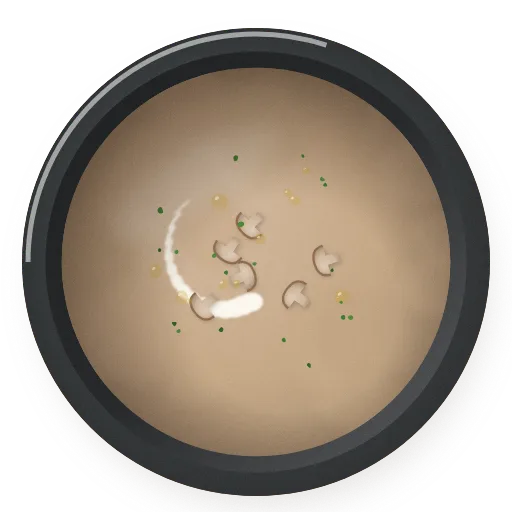
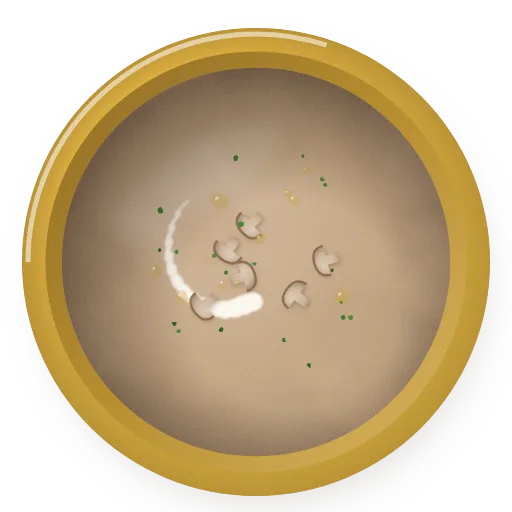
Días de compra a elegir, colores vivos y cabecera más pequeña
- Elegir toda la semana, 2, 3 o 4 días desde hoy, o días sueltos
- Tema claro y vivo siempre (sin fondo negro en modo oscuro); vajilla de colores en los dibujos
- Cabecera de 185 a 93 px; al bajar queda una barra de 55 px

Claude-Session: https://claude.ai/code/session_011mbdbddPVw8JRDQBDBTJyS

Changed region(s): [[0.0312, 0.0312, 0.9688, 0.9688]]

diff --git a/index.html b/index.html
@@ -3,7 +3,7 @@
 <head>
 <meta charset="utf-8">
 <meta name="viewport" content="width=device-width, initial-scale=1, viewport-fit=cover">
-<meta name="theme-color" content="#1D7A4B">
+<meta name="theme-color" content="#10934F">
 <meta name="apple-mobile-web-app-capable" content="yes">
 <meta name="apple-mobile-web-app-title" content="Mi Compra">
 <meta name="mobile-web-app-capable" content="yes">
@@ -18,23 +18,16 @@
 <style>
 /* Layout: columna móvil de 560px máx · cabecera fija con el estado de la cesta · contenido por pestañas · navegación inferior fija */
 :root{
-  --bg:#F5FAF6; --surface:#FFFFFF; --ink:#13271B; --muted:#58705F; --line:#DAE6DD;
-  --green:#1D7A4B; --green-strong:#135C36; --green-soft:#E2F2E8; --on-green:#FFFFFF; --leaf:#F2B53A; --plate-bg:#EAF3EC;
-  --table:#E6ECE5; --table-line:rgba(19,39,27,.035); --warn:#9A6212; --warn-soft:#FBF0DB; --bad:#B3261E; --bad-soft:#FBE6E3;
-  --shadow:0 1px 2px rgba(19,39,27,.06),0 6px 20px rgba(19,39,27,.06);
+  /* Tema único, claro y vivo (a petición: nada de fondos negros, aunque el móvil esté en modo oscuro) */
+  --bg:#F4FBF6; --surface:#FFFFFF; --ink:#16352A; --muted:#5B7367; --line:#D5EADC;
+  --green:#10934F; --green-strong:#0A7440; --green-soft:#DCF4E5; --on-green:#FFFFFF; --leaf:#FFB627; --plate-bg:#E8F6EC;
+  --head:linear-gradient(120deg,#0E8A4A 0%,#13A55C 60%,#22B86E 100%);
+  --table:#EAF5EC; --table-line:rgba(16,147,79,.05); --warn:#A35F00; --warn-soft:#FFF1D6; --bad:#C62A1F; --bad-soft:#FFE7E3;
+  --shadow:0 1px 2px rgba(16,60,35,.06),0 6px 20px rgba(16,60,35,.07);
   --f-display:"Bricolage Grotesque",ui-rounded,"Segoe UI",system-ui,sans-serif;
   --f-body:"Figtree",system-ui,-apple-system,"Segoe UI",Roboto,sans-serif;
+  color-scheme:light;
 }
-@media (prefers-color-scheme: dark){:root:not([data-theme="light"]){
-  --bg:#0E1812; --surface:#15221A; --ink:#E5EFE8; --muted:#9AB1A2; --line:#25372B;
-  --green:#4BC283; --green-strong:#7FD9A8; --green-soft:#183324; --on-green:#08170E; --leaf:#F2C15A; --plate-bg:#1F3428;
-  --table:#1B2A20; --table-line:rgba(255,255,255,.03); --warn:#E6B356; --warn-soft:#352A12; --bad:#F2897F; --bad-soft:#3A1B18;
-  --shadow:0 1px 2px rgba(0,0,0,.3),0 6px 20px rgba(0,0,0,.25); color-scheme:dark}}
-:root[data-theme="dark"]{
-  --bg:#0E1812; --surface:#15221A; --ink:#E5EFE8; --muted:#9AB1A2; --line:#25372B;
-  --green:#4BC283; --green-strong:#7FD9A8; --green-soft:#183324; --on-green:#08170E; --leaf:#F2C15A; --plate-bg:#1F3428;
-  --table:#1B2A20; --table-line:rgba(255,255,255,.03); --warn:#E6B356; --warn-soft:#352A12; --bad:#F2897F; --bad-soft:#3A1B18;
-  --shadow:0 1px 2px rgba(0,0,0,.3),0 6px 20px rgba(0,0,0,.25); color-scheme:dark}
 
 *{box-sizing:border-box}
 body{background:var(--bg);color:var(--ink);font-family:var(--f-body);font-size:15px;line-height:1.45;-webkit-font-smoothing:antialiased}
@@ -46,25 +39,31 @@ button{cursor:pointer}
 .wrap{max-width:560px;margin:0 auto;padding-left:max(16px,env(safe-area-inset-left,0px));padding-right:max(16px,env(safe-area-inset-right,0px))}
 
 /* Cabecera */
-header.top{background:var(--green);color:var(--on-green)}
-header.top .wrap{padding-block:12px 8px;display:grid;gap:10px}
-.statusbar{position:sticky;top:env(safe-area-inset-top,0px);z-index:5;background:var(--green);color:var(--on-green);box-shadow:0 6px 14px -10px rgba(10,30,18,.45)}
-.statusbar .wrap{padding-block:4px 12px}
+header.top{background:var(--head);color:var(--on-green)}
+header.top .wrap{padding-block:8px 2px;display:grid;gap:6px}
+.statusbar{position:sticky;top:env(safe-area-inset-top,0px);z-index:5;background:var(--head);color:var(--on-green);box-shadow:0 6px 14px -10px rgba(10,30,18,.45)}
+.statusbar .wrap{padding-block:4px 9px}
 body::before{content:"";position:fixed;inset:0 0 auto;height:env(safe-area-inset-top,0px);z-index:10;background:var(--green)}
 .brand{display:flex;align-items:center;justify-content:space-between;gap:12px}
 .logo{display:flex;align-items:center;gap:10px;min-width:0}
-.logo .mark{width:42px;height:42px;flex:none}
-.brand h1{font-family:var(--f-display);font-weight:800;font-size:19px;letter-spacing:-.01em;margin:0;line-height:1.1}
+.logo .mark{width:28px;height:28px;flex:none}
+.brand h1{font-family:var(--f-display);font-weight:800;font-size:16px;white-space:nowrap;letter-spacing:-.01em;margin:0;line-height:1.1}
 .tagline{margin:2px 0 0;font-size:12.5px;opacity:.9}
 .store-link{font-size:12px;font-weight:600;color:var(--green);text-decoration:none;white-space:nowrap}
 .store-link:hover{text-decoration:underline}
 .store-card{display:flex;gap:12px;align-items:center;justify-content:space-between;flex-wrap:wrap}
 a.btn{text-decoration:none}
-.demo-tag{font-size:11px;font-weight:700;letter-spacing:.06em;text-transform:uppercase;padding:3px 8px;border-radius:99px;border:1px solid currentColor;opacity:.9;white-space:nowrap}
-.status{display:grid;gap:6px}
+.demo-tag{font-size:9.5px;font-weight:700;letter-spacing:.06em;text-transform:uppercase;padding:3px 8px;border-radius:99px;border:1px solid currentColor;opacity:.9;white-space:nowrap}
+.status{display:grid;gap:5px}
+.st-main{display:flex;justify-content:space-between;align-items:center;gap:10px}
+.st-total{display:flex;align-items:baseline;gap:6px;white-space:nowrap}
+.st-total strong{font-family:var(--f-display);font-size:22px;font-weight:800;line-height:1}
+.st-total span{font-size:13px;opacity:.9}
+.st-side{display:grid;justify-items:end;font-size:12px;line-height:1.25;text-align:right;min-width:0}
+.st-side b{font-size:13px}
 .status-row{display:flex;justify-content:space-between;align-items:baseline;gap:8px;font-size:13px}
 .status-row strong{font-family:var(--f-display);font-size:22px;font-weight:700}
-.meter{height:8px;border-radius:99px;background:color-mix(in srgb,var(--on-green) 25%,transparent);overflow:hidden}
+.meter{height:6px;border-radius:99px;background:color-mix(in srgb,var(--on-green) 25%,transparent);overflow:hidden}
 .meter i{display:block;height:100%;border-radius:99px;background:var(--on-green);transition:width .35s ease}
 .meter.over i{background:var(--warn-soft)}
 
@@ -205,7 +204,7 @@ nav.bottom button[aria-current="page"] svg{stroke-width:2.3}
 .alt:hover{border-color:var(--green)}
 .alt.current{border-color:var(--green);background:var(--green-soft)}
 
-.toast{position:fixed;left:50%;transform:translateX(-50%);bottom:calc(88px + env(safe-area-inset-bottom,0px));background:var(--ink);color:var(--bg);padding:10px 16px;border-radius:10px;font-size:14px;font-weight:600;z-index:30;box-shadow:var(--shadow)}
+.toast{position:fixed;left:50%;transform:translateX(-50%);bottom:calc(88px + env(safe-area-inset-bottom,0px));background:var(--green-strong);color:#fff;padding:10px 16px;border-radius:12px;box-shadow:0 8px 24px rgba(10,80,40,.25);font-size:14px;font-weight:600;z-index:30;box-shadow:var(--shadow)}
 @media (prefers-reduced-motion: reduce){*{transition:none!important}}
 @media (max-width:380px){.slots{grid-template-columns:1fr}.bar-row{grid-template-columns:minmax(0,7em) 1fr auto}}
 
@@ -322,7 +321,7 @@ nav.bottom button span{white-space:nowrap}
 .w-q{display:grid;gap:10px;justify-items:center}
 .w-q .label{justify-self:start}
 .w-q .tiles{width:100%}
-.super .progress{position:sticky;top:calc(env(safe-area-inset-top,0px) + 92px);z-index:3;box-shadow:var(--shadow)}
+.super .progress{position:sticky;top:calc(env(safe-area-inset-top,0px) + 62px);z-index:3;box-shadow:var(--shadow)}
 .super-count{font-size:17px}
 .ssec{display:grid;border:1px solid var(--line);border-radius:16px;overflow:hidden;background:var(--surface)}
 .ssec-head{display:flex;justify-content:space-between;align-items:center;padding:10px 14px;background:var(--green-soft);font-weight:700;color:var(--green-strong)}
@@ -356,6 +355,9 @@ nav.bottom button span{white-space:nowrap}
 .ext-row{display:flex;align-items:center;gap:8px;flex-wrap:wrap;margin:2px 0}
 .wk.fuera{opacity:.45}
 .wk.fuera[aria-pressed="true"]{opacity:.8}
+.dias-sel{display:grid;grid-template-columns:repeat(7,1fr);gap:5px;width:100%}
+.dsel{border:2px solid var(--line);background:var(--surface);border-radius:12px;padding:10px 0;font-weight:700;font-size:13px;color:var(--muted)}
+.dsel[aria-pressed="true"]{background:var(--green);border-color:var(--green);color:#fff}
 .compra-act{display:flex;align-items:center;gap:10px;border-color:color-mix(in srgb,var(--green) 40%,var(--line));background:var(--green-soft)}
 .tile.freq{gap:3px;padding:12px 6px}
 .tile.freq .t-emo{font-family:var(--f-display);font-weight:800;font-size:28px}
@@ -386,7 +388,7 @@ nav.bottom button span{white-space:nowrap}
           <path d="m17.5 27 4.5 4.5 8.5-9" stroke="var(--on-green)" stroke-width="3.2" stroke-linecap="round" stroke-linejoin="round" fill="none"/>
           <path d="M33 6c4 0 7 2.5 7 7-4.2 0-7-2.6-7-7z" fill="var(--leaf)"/>
         </svg>
-        <div><h1>Mi Compra Inteligente</h1><p class="tagline">Tu semana organizada para comprar en Mercadona</p></div>
+        <h1>Mi Compra Inteligente</h1>
       </div>
       <span class="demo-tag" title="Precios orientativos sin verificar">Precios demo</span>
     </div>
@@ -829,7 +831,7 @@ RECETAS.push({id:'aprovechar', aprov:true, nombre:'Plato de aprovechamiento', mo
 const REC = Object.fromEntries(RECETAS.map(r=>[r.id,r]));
 
 const EJEMPLO = () => ({
-  hogar:{personas:4, presupuesto:100, vegetariano:false, rapido:false, alergias:[], reciclaje:true, diaReciclaje:6, cadaDias:7, inicio:0},
+  hogar:{personas:4, presupuesto:100, vegetariano:false, rapido:false, alergias:[], reciclaje:true, diaReciclaje:6, dias:[0,1,2,3,4,5,6]},
   extras:{},
   menu:[
     {comida:'lentejas', cena:'tortilla-patata'},
@@ -1097,11 +1099,18 @@ function mejorasCalc(){
    Un día a la semana se rellena solo con los platos que mejor gastan lo que sobra del resto de la semana:
    se prueba cada receta compatible y se queda la que deja la cesta más barata contando el desperdicio. */
 /* ---------- Compra por días ----------
-   cadaDias = 7: una compra semanal de lunes a domingo. 2, 3 o 4: compras más cortas que empiezan en «inicio».
-   Solo los días de la compra actual cuentan para la lista, el presupuesto y el aprovechamiento. */
-const cadaDias = () => [2,3,4,7].includes(state.hogar.cadaDias) ? state.hogar.cadaDias : 7;
-function diasCompra(){ const n=cadaDias(), ini=n===7?0:(state.hogar.inicio||0); return Array.from({length:n},(_,k)=>(ini+k)%7); }
-const enCompra = i => cadaDias()===7 || diasCompra().includes(i);
+   «dias» son los días de la semana que entran en esta compra: la semana entera (de lunes a domingo),
+   unos cuantos seguidos (por ejemplo, 3) o días sueltos elegidos a mano. Solo esos días cuentan
+   para la lista, el presupuesto y el aprovechamiento. */
+function diasElegidos(){ const h=state.hogar;
+  if(Array.isArray(h.dias)&&h.dias.length) return h.dias;
+  const n=[2,3,4].includes(h.cadaDias)?h.cadaDias:7; // datos guardados de la versión anterior
+  return n===7?[0,1,2,3,4,5,6]:Array.from({length:n},(_,k)=>((h.inicio||0)+k)%7); }
+function diasCompra(){ const d=[...new Set(diasElegidos())]; if(d.length===7) return [0,1,2,3,4,5,6]; const hoy=diaHoy(); return d.sort((a,b)=>((a-hoy+7)%7)-((b-hoy+7)%7)); }
+const cadaDias = () => diasCompra().length;
+const seguidosDesde = (ini,n) => Array.from({length:n},(_,k)=>(ini+k)%7);
+const sonSeguidos = () => { const d=diasCompra(); return d.every((x,k)=>k===0||x===(d[k-1]+1)%7); };
+const enCompra = i => diasCompra().includes(i);
 const limite = () => cadaDias()===7 ? state.hogar.presupuesto : r2(state.hogar.presupuesto*cadaDias()/7);
 function nombresDias(dias){ const n=dias.map(i=>DIAS[i].slice(0,3).toLowerCase()); return n.length>1? n.slice(0,-1).join(', ')+' y '+n.at(-1) : n[0]; }
 const textoCompra = () => cadaDias()===7 ? 'de lunes a domingo' : nombresDias(diasCompra());
@@ -1381,9 +1390,9 @@ function numPlatos(){ return state.menu.reduce((n,d,i)=>n+(enCompra(i)?MOMENTOS.
 function pintarEstado(){
   const c=calcularCesta(), h=state.hogar, L=limite(), pct=Math.min(100,c.total/L*100), over=c.total>L;
   document.getElementById('status').innerHTML=`
-    <div class="status-row"><span>🛒 ${h.personas} ${h.personas===1?'persona':'personas'} · ${numPlatos()} platos${cadaDias()<7?' · '+cadaDias()+' días':''}</span><span class="num">${over?'⚠ Te pasas '+eur(c.total-L):'✅ Te sobran '+eur(L-c.total)}</span></div>
+    <div class="st-main"><div class="st-total"><strong class="num">${eur(c.total)}</strong><span class="num">de ${eur(L)}</span></div>
+      <div class="st-side"><b class="num">${over?'⚠ Te pasas '+eur(c.total-L):'✅ Te sobran '+eur(L-c.total)}</b><span>${h.personas} ${h.personas===1?'persona':'personas'} · ${numPlatos()} platos${cadaDias()<7?' · '+cadaDias()+' días':''}</span></div></div>
     ${navigator.onLine===false?'<div class="offline">📴 Sin conexión · la app sigue funcionando</div>':''}
-    <div class="status-row"><strong class="num">${eur(c.total)}</strong><span class="num">de ${eur(L)}</span></div>
     <div class="meter ${over?'over':''}" role="progressbar" aria-label="Cesta frente a presupuesto" aria-valuenow="${Math.round(pct)}" aria-valuemin="0" aria-valuemax="100"><i style="width:${pct}%"></i></div>`;
   return c;
 }
@@ -1396,7 +1405,7 @@ function render(){
 const aviso=`<div class="notice"><span>ⓘ</span><span><b>Datos de demostración.</b> Los precios y formatos son orientativos y no están verificados. Mi Compra Inteligente es una app independiente, no afiliada a Mercadona ni respaldada por ella, y no tiene integración oficial con su tienda: comprueba los precios en tu supermercado o en su web antes de comprar.</span></div>`;
 
 const PRESU_MIN=20, PRESU_MAX=400;
-const FRECUENCIAS=[[7,'Una vez a la semana','De lunes a domingo'],[4,'Cada 4 días','4 días de menú'],[3,'Cada 3 días','3 días de menú'],[2,'Cada 2 días','2 días de menú']];
+const FRECUENCIAS=[[7,'Toda la semana','De lunes a domingo'],[4,'4 días','Desde hoy'],[3,'3 días','Desde hoy'],[2,'2 días','Desde hoy']];
 function vHogar(){
   const h=state.hogar;
   return `<section data-view="hogar">
@@ -1424,15 +1433,15 @@ function vHogar(){
       </div>
     </div>
     <div class="card bigq">
-      <div class="q-title"><span class="q-emo">🗓</span><span>¿Cada cuánto haces la compra?</span></div>
-      <div class="tiles two">${FRECUENCIAS.map(([n,t,sub])=>`<button class="tile freq" data-act="cada" data-v="${n}" aria-pressed="${cadaDias()===n}"><span class="t-emo">${n===7?'📅':n}</span><span>${t}</span><span class="small muted">${sub}</span></button>`).join('')}</div>
-      ${cadaDias()<7?`<div class="label" style="justify-self:start">¿Qué día empieza esta compra?</div>
-        <div class="quick">${DIAS.map((dn,i)=>`<button class="chip" data-act="inicio" data-v="${i}" aria-pressed="${(h.inicio||0)===i}">${dn.slice(0,3)}</button>`).join('')}</div>
-        <p class="small muted" style="margin:0">Esta compra: <b>${textoCompra()}</b> · ${eur(limite())} de tu presupuesto semanal.</p>`:''}
+      <div class="q-title"><span class="q-emo">🗓</span><span>¿Para qué días haces la compra?</span></div>
+      <div class="tiles two">${FRECUENCIAS.map(([n,t,sub])=>`<button class="tile freq" data-act="cada" data-v="${n}" aria-pressed="${cadaDias()===n&&sonSeguidos()}"><span class="t-emo">${n===7?'📅':n}</span><span>${t}</span><span class="small muted">${sub}</span></button>`).join('')}</div>
+      <div class="label" style="justify-self:start">O toca los días que quieras</div>
+      <div class="dias-sel" role="group" aria-label="Días de esta compra">${DIAS.map((dn,i)=>`<button class="dsel" data-act="tdia" data-v="${i}" aria-pressed="${enCompra(i)}">${dn.slice(0,3)}</button>`).join('')}</div>
+      <p class="small muted" style="margin:0">Esta compra: <b>${cadaDias()} ${cadaDias()===1?'día':'días'} · ${textoCompra()}</b>${cadaDias()<7?` · ${eur(limite())} de tu presupuesto semanal`:''}.</p>
     </div>
     <div class="card bigq">
       <div class="q-title"><span class="q-emo">♻</span><span>Día de aprovechamiento</span></div>
-      <p class="small muted" style="margin:0;max-width:34ch">${cadaDias()===7?'Un día a la semana cenáis con lo que sobra, y la comida de ese día se elige para gastar lo que ya está comprado. Así no se tira nada.':cadaDias()>=3?`Comprando cada ${cadaDias()} días, la cena del último día de cada compra se hace con lo que sobra.`:'Comprando cada 2 días casi no sobra comida, así que no hace falta un día de aprovechamiento.'}</p>
+      <p class="small muted" style="margin:0;max-width:34ch">${cadaDias()===7?'Un día a la semana cenáis con lo que sobra, y la comida de ese día se elige para gastar lo que ya está comprado. Así no se tira nada.':cadaDias()>=3?`Con compras de ${cadaDias()} días, la cena del último día de cada compra se hace con lo que sobra.`:(cadaDias()===1?'Con compras de un día no sobra comida, así que no hace falta un día de aprovechamiento.':'Con compras de 2 días casi no sobra comida, así que no hace falta un día de aprovechamiento.')}</p>
       ${cadaDias()>=3?`<div class="tiles two" style="max-width:320px"><button class="tile" data-act="recic" aria-pressed="${h.reciclaje}"><span class="t-emo">${h.reciclaje?'✅':'⭕'}</span><span>${h.reciclaje?'Activado':'Desactivado'}</span></button></div>`:''}
       ${h.reciclaje&&cadaDias()===7?`<div class="quick">${DIAS.map((dn,i)=>`<button class="chip" data-act="diarec" data-v="${i}" aria-pressed="${h.diaReciclaje===i}">${dn.slice(0,3)}</button>`).join('')}</div>`:''}
     </div>
@@ -1576,7 +1585,7 @@ function vLista(c){
       </label>`).join('')}</div>`).join('')}
     ${cubiertos.length?`<details class="covered card"><summary>🏠 Ya lo tienes en casa (${cubiertos.length})</summary><ul>${cubiertos.map(l=>`<li>${emo(l.pid)} ${esc(l.p.nombre)}</li>`).join('')}</ul></details>`:''}
     <div class="total-bar"><span>Total estimado<br><span class="small">${comprar.reduce((a,l)=>a+l.envases,0)} productos</span></span><strong class="num">${eur(c.total)}</strong></div>
-    <button class="btn ghost block" data-act="semana">${cadaDias()===7?'✅ He terminado la semana: guardar sobras y hacer menú nuevo':`✅ Ya hice esta compra: preparar la siguiente (${nombresDias(diasCompra().map(i=>(i+cadaDias())%7))})`}</button>
+    <button class="btn ghost block" data-act="semana">${cadaDias()===7?'✅ He terminado la semana: guardar sobras y hacer menú nuevo':`✅ Ya hice esta compra: preparar la siguiente (${nombresDias(seguidosDesde((diasCompra().at(-1)+1)%7,cadaDias()))})`}</button>
     ${aviso}
   </section>`;
 }
@@ -1766,8 +1775,9 @@ function pintarBienvenida(){
       <div class="quick">${[40,60,80,100,150].map(v=>`<button class="chip" data-act="ob-presu" data-v="${v}" aria-pressed="${h.presupuesto===v}">${v} €</button>`).join('')}</div></div>
     <div class="w-q"><div class="label">3 · ¿Alguna alergia o preferencia?</div>
       <div class="tiles">${Object.entries(ALERGENOS).map(([k,l])=>`<button class="tile" data-act="ob-alerg" data-v="${k}" aria-pressed="${h.alergias.includes(k)}"><span class="t-emo">${ALERG_EMO[k]}</span><span>${l}</span></button>`).join('')}<button class="tile" data-act="ob-veg" aria-pressed="${h.vegetariano}"><span class="t-emo">🥗</span><span>Vegetariano</span></button></div></div>
-    <div class="w-q"><div class="label">4 · ¿Cada cuánto vas a hacer la compra?</div>
-      <div class="quick">${FRECUENCIAS.map(([n,t])=>`<button class="chip" data-act="ob-cada" data-v="${n}" aria-pressed="${cadaDias()===n}">${t}</button>`).join('')}</div></div>
+    <div class="w-q"><div class="label">4 · ¿Para cuántos días haces la compra?</div>
+      <div class="quick">${FRECUENCIAS.map(([n,t])=>`<button class="chip" data-act="ob-cada" data-v="${n}" aria-pressed="${cadaDias()===n&&sonSeguidos()}">${t}</button>`).join('')}</div>
+      <div class="dias-sel" role="group" aria-label="Días de la compra">${DIAS.map((dn,i)=>`<button class="dsel" data-act="ob-tdia" data-v="${i}" aria-pressed="${enCompra(i)}">${dn.slice(0,3)}</button>`).join('')}</div></div>
     <button class="btn block xl" data-act="ob-crear">✨ Crear mi menú</button>
     <button class="btn ghost block" data-act="ob-ejemplo">Prefiero ver primero el ejemplo</button>
   </div></div>`;
@@ -1823,7 +1833,7 @@ function nuevaSemana(){
     if(!l.fresco&&resto>=Math.max(1,l.p.envase*0.02)) nueva[l.pid]=resto;
   }
   state.despensa=nueva; state.marcados={}; state.extras={};
-  if(cadaDias()<7) state.hogar.inicio=((state.hogar.inicio||0)+cadaDias())%7;
+  if(cadaDias()<7) state.hogar.dias=seguidosDesde((diasCompra().at(-1)+1)%7,cadaDias());
   proponerMenu(); save(); diaSel=diaInicial();
   toast(cadaDias()<7?`🛒 Siguiente compra lista: ${textoCompra()}`:'🏠 Sobras guardadas en tu despensa. ¡Menú nuevo listo!'); irA('menu');
 }
@@ -1858,9 +1868,11 @@ document.addEventListener('click',e=>{
       save(); pintarEstado();
       if(extrasHoja){ const sc=document.querySelector('.sheet')?.scrollTop; const y=document.getElementById('ext-res'); const btn=document.querySelector('.ext-ok'); if(y) y.innerHTML=extrasHTML(); if(btn){ const tot=Object.entries(state.extras).reduce((a,[pid,n])=>a+n*PROD[pid].precio,0); btn.textContent=nExtras()?`Listo · ${nExtras()} ${nExtras()===1?'cosa añadida':'cosas añadidas'} · ${eur(tot)}`:'Listo'; } return; }
       if(Number(t.dataset.d)>0) toast(emo(v)+' '+PROD[v].nombre+' en tu lista'); break; }
-    case 'cada': { const n=Number(v); h.cadaDias=n; h.inicio=n===7?0:diaHoy(); state.fijados={}; aprovechar(); diaSel=diaInicial(); toast(n===7?'📅 Compra semanal, de lunes a domingo':`🛒 Compra cada ${n} días: ${textoCompra()}`); break; }
-    case 'inicio': h.inicio=Number(v); state.fijados={}; aprovechar(); diaSel=diaInicial(); break;
-    case 'ob-cada': h.cadaDias=Number(v); pintarBienvenida(); return;
+    case 'cada': { const n=Number(v); h.dias=n===7?[0,1,2,3,4,5,6]:seguidosDesde(diaHoy(),n); state.fijados={}; aprovechar(); diaSel=diaInicial(); toast(n===7?'📅 Compra semanal, de lunes a domingo':`🛒 Compra cada ${n} días: ${textoCompra()}`); break; }
+    case 'tdia': { const i=Number(v), d=new Set(diasCompra()); if(d.has(i)){ if(d.size===1){ toast('Deja al menos un día'); return; } d.delete(i); } else d.add(i);
+      h.dias=[...d]; state.fijados={}; rellenarHuecos(); aprovechar(); diaSel=enCompra(diaSel)?diaSel:diaInicial(); toast(`🗓 Compra para ${cadaDias()} ${cadaDias()===1?'día':'días'}: ${textoCompra()}`); break; }
+    case 'ob-cada': { const n=Number(v); h.dias=n===7?[0,1,2,3,4,5,6]:seguidosDesde(diaHoy(),n); pintarBienvenida(); return; }
+    case 'ob-tdia': { const i=Number(v), d=new Set(diasCompra()); if(d.has(i)){ if(d.size>1) d.delete(i); } else d.add(i); h.dias=[...d]; pintarBienvenida(); return; }
     case 'altcat': hoja.cat=hoja.cat===v?null:v; pintarHoja(); return;
     case 'msuper': state.modoSuper=v==='1'; save(); render(); scrollTo(0,0); if(state.modoSuper) pedirPantalla(); else soltarPantalla(); return;
     case 'decero': state.nuevo=true; state.hogar=Object.assign(EJEMPLO().hogar,{alergias:[]}); pintarBienvenida(); return;
@@ -1868,7 +1880,7 @@ document.addEventListener('click',e=>{
     case 'ob-presu': h.presupuesto=Number(v); pintarBienvenida(); return;
     case 'ob-alerg': h.alergias=h.alergias.includes(v)?h.alergias.filter(x=>x!==v):[...h.alergias,v]; pintarBienvenida(); return;
     case 'ob-veg': h.vegetariano=!h.vegetariano; pintarBienvenida(); return;
-    case 'ob-crear': delete state.nuevo; state.despensa={}; state.marcados={}; state.extras={}; state.guiaVista=false; h.inicio=cadaDias()===7?0:diaHoy(); proponerMenu(); document.getElementById('layer').innerHTML=''; save(); diaSel=diaInicial(); irA('menu'); toast(cadaDias()===7?'✨ Tu menú de la semana está listo':`✨ Tu menú para ${textoCompra()} está listo`); return;
+    case 'ob-crear': delete state.nuevo; state.despensa={}; state.marcados={}; state.extras={}; state.guiaVista=false; proponerMenu(); document.getElementById('layer').innerHTML=''; save(); diaSel=diaInicial(); irA('menu'); toast(cadaDias()===7?'✨ Tu menú de la semana está listo':`✨ Tu menú para ${textoCompra()} está listo`); return;
     case 'ob-ejemplo': delete state.nuevo; state=EJEMPLO(); aprovechar(); document.getElementById('layer').innerHTML=''; save(); irA('menu'); return;
     case 'elegir': if(esDiaReciclaje(hoja.dia)) (state.fijados||(state.fijados={}))[hoja.dia+'-'+hoja.momento]=true; state.menu[hoja.dia][hoja.momento]=v; hoja.cambiar=false; if(!esDiaReciclaje(hoja.dia)) aprovechar(); toast('Receta cambiada'); break;
     case 'aplicar': state.menu[Number(t.dataset.d)][t.dataset.m]=v; aprovechar(); toast('Cambio aplicado'); break;

diff --git a/sw.js b/sw.js
@@ -3,7 +3,7 @@
      cobertura o tarda más de 3 segundos, se usa la copia guardada. Así funciona dentro del súper.
    - Iconos y archivos propios: se sirven de la copia guardada.
    - Tipografías de Google: se usan de la copia y se actualizan en segundo plano. */
-const VERSION = 'mci-v5-2026-10-29';
+const VERSION = 'mci-v6-2026-10-29';
 const CORE = [
   './',
   './index.html',

diff --git a/README.md b/README.md
@@ -14,7 +14,7 @@ App para organizar el menú de la semana y la lista de la compra en Mercadona, d
 - **Gasto:** cambios para ahorrar (sin repetir plato) y caprichos premium.
 - **Día de aprovechamiento:** un plato hecho con lo que sobra para no tirar comida.
 - **Despensa:** lo que ya tienes en casa no se vuelve a comprar, con buscador y por secciones.
-- **Compra por días:** una vez a la semana (de lunes a domingo) o cada 2, 3 o 4 días; menú, lista y presupuesto solo para esos días.
+- **Compra por días:** toda la semana (de lunes a domingo), 2, 3 o 4 días desde hoy, o los días sueltos que elijas; menú, lista y presupuesto solo para esos días.
 - **Añadir otras cosas:** más de 230 productos (fruta, lácteos, desayuno, bebidas, congelados, limpieza, higiene…) para sumarlos a la lista aunque no salgan en ninguna receta.
 
 ## Instalarla en el móvil
